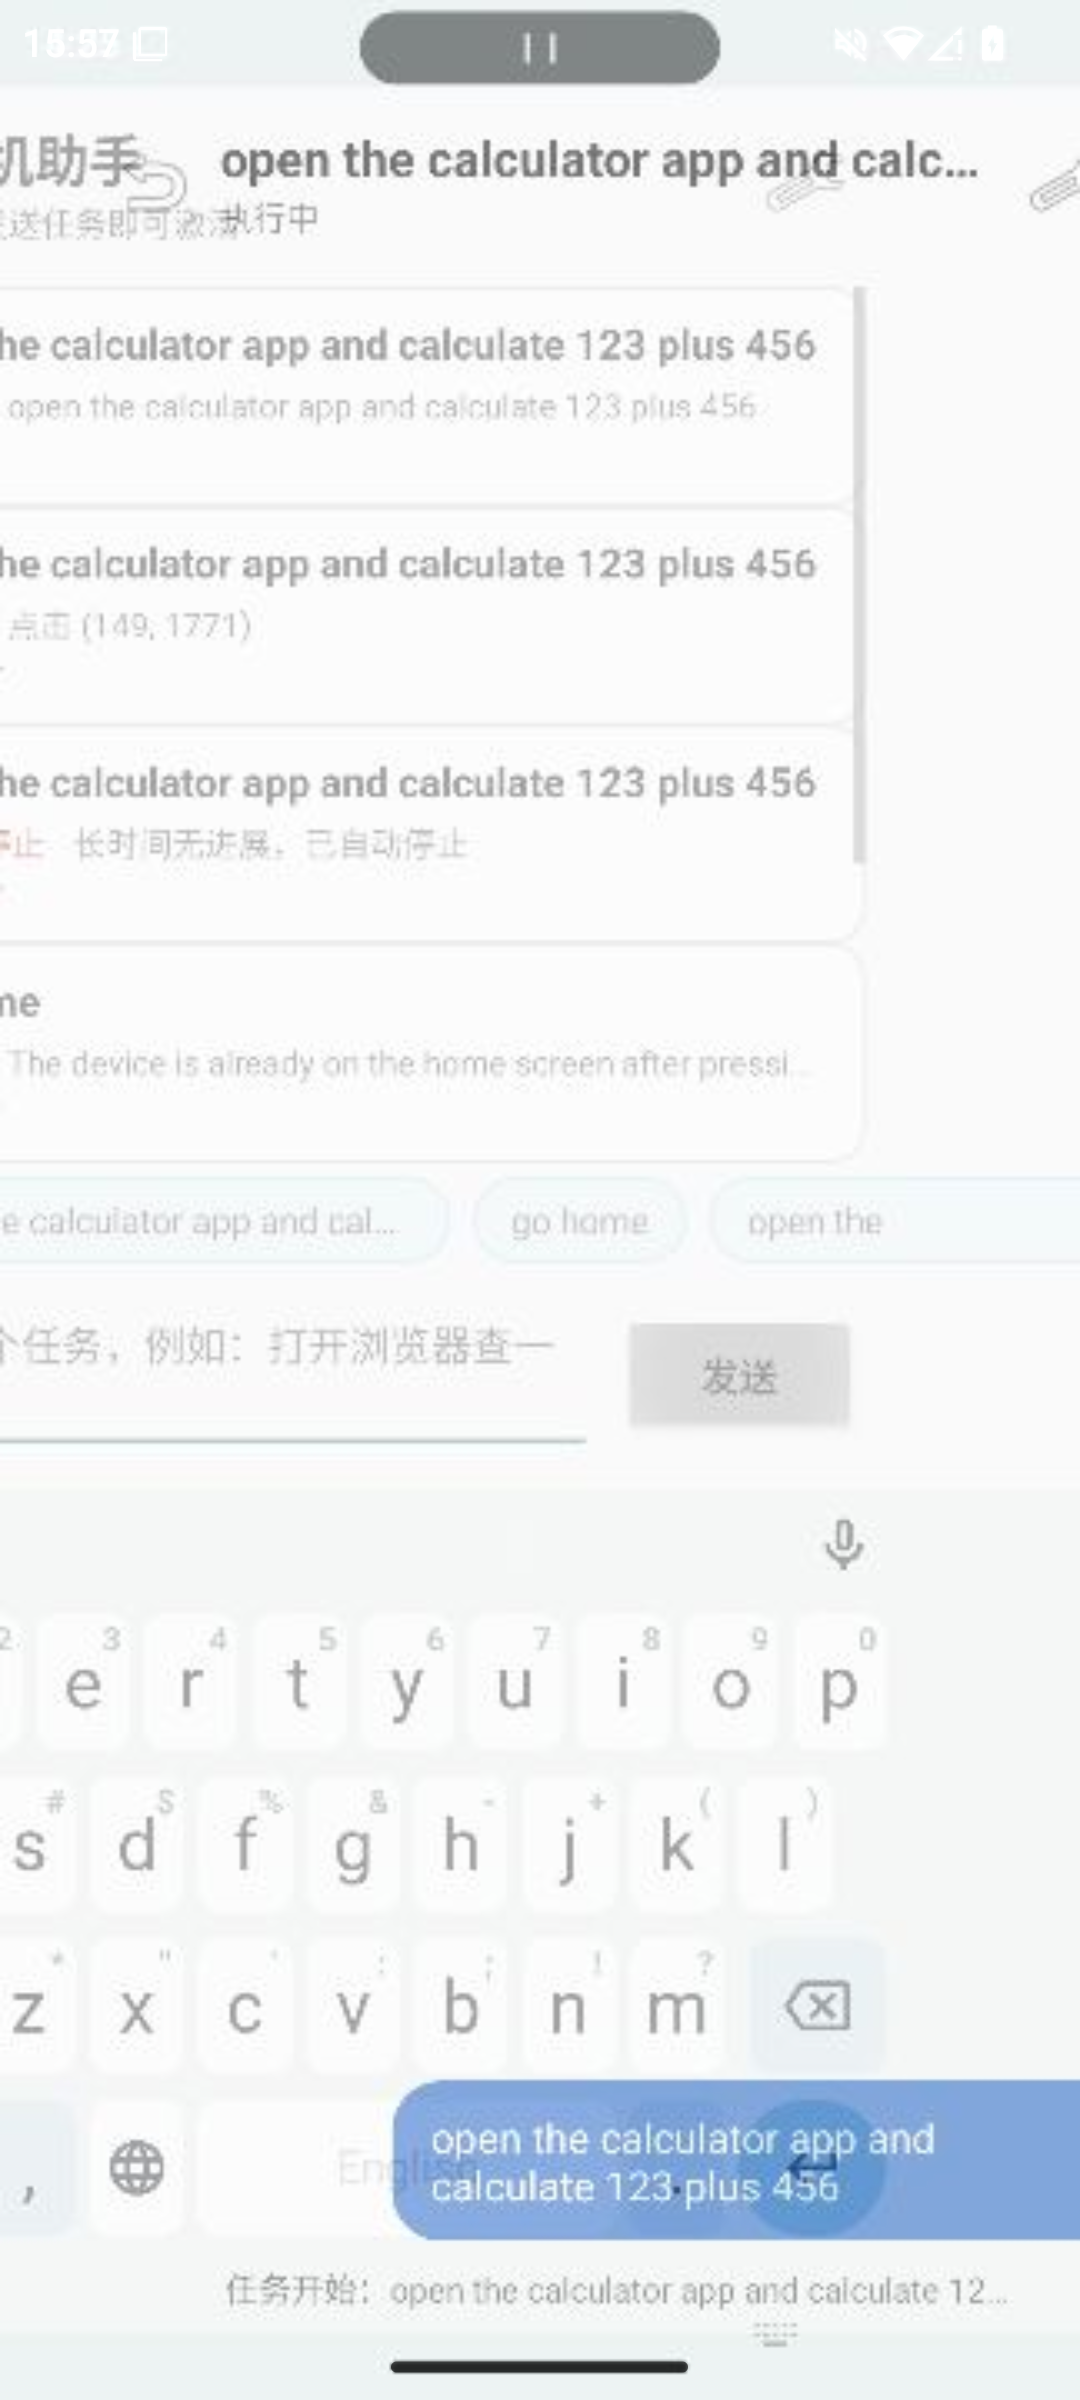
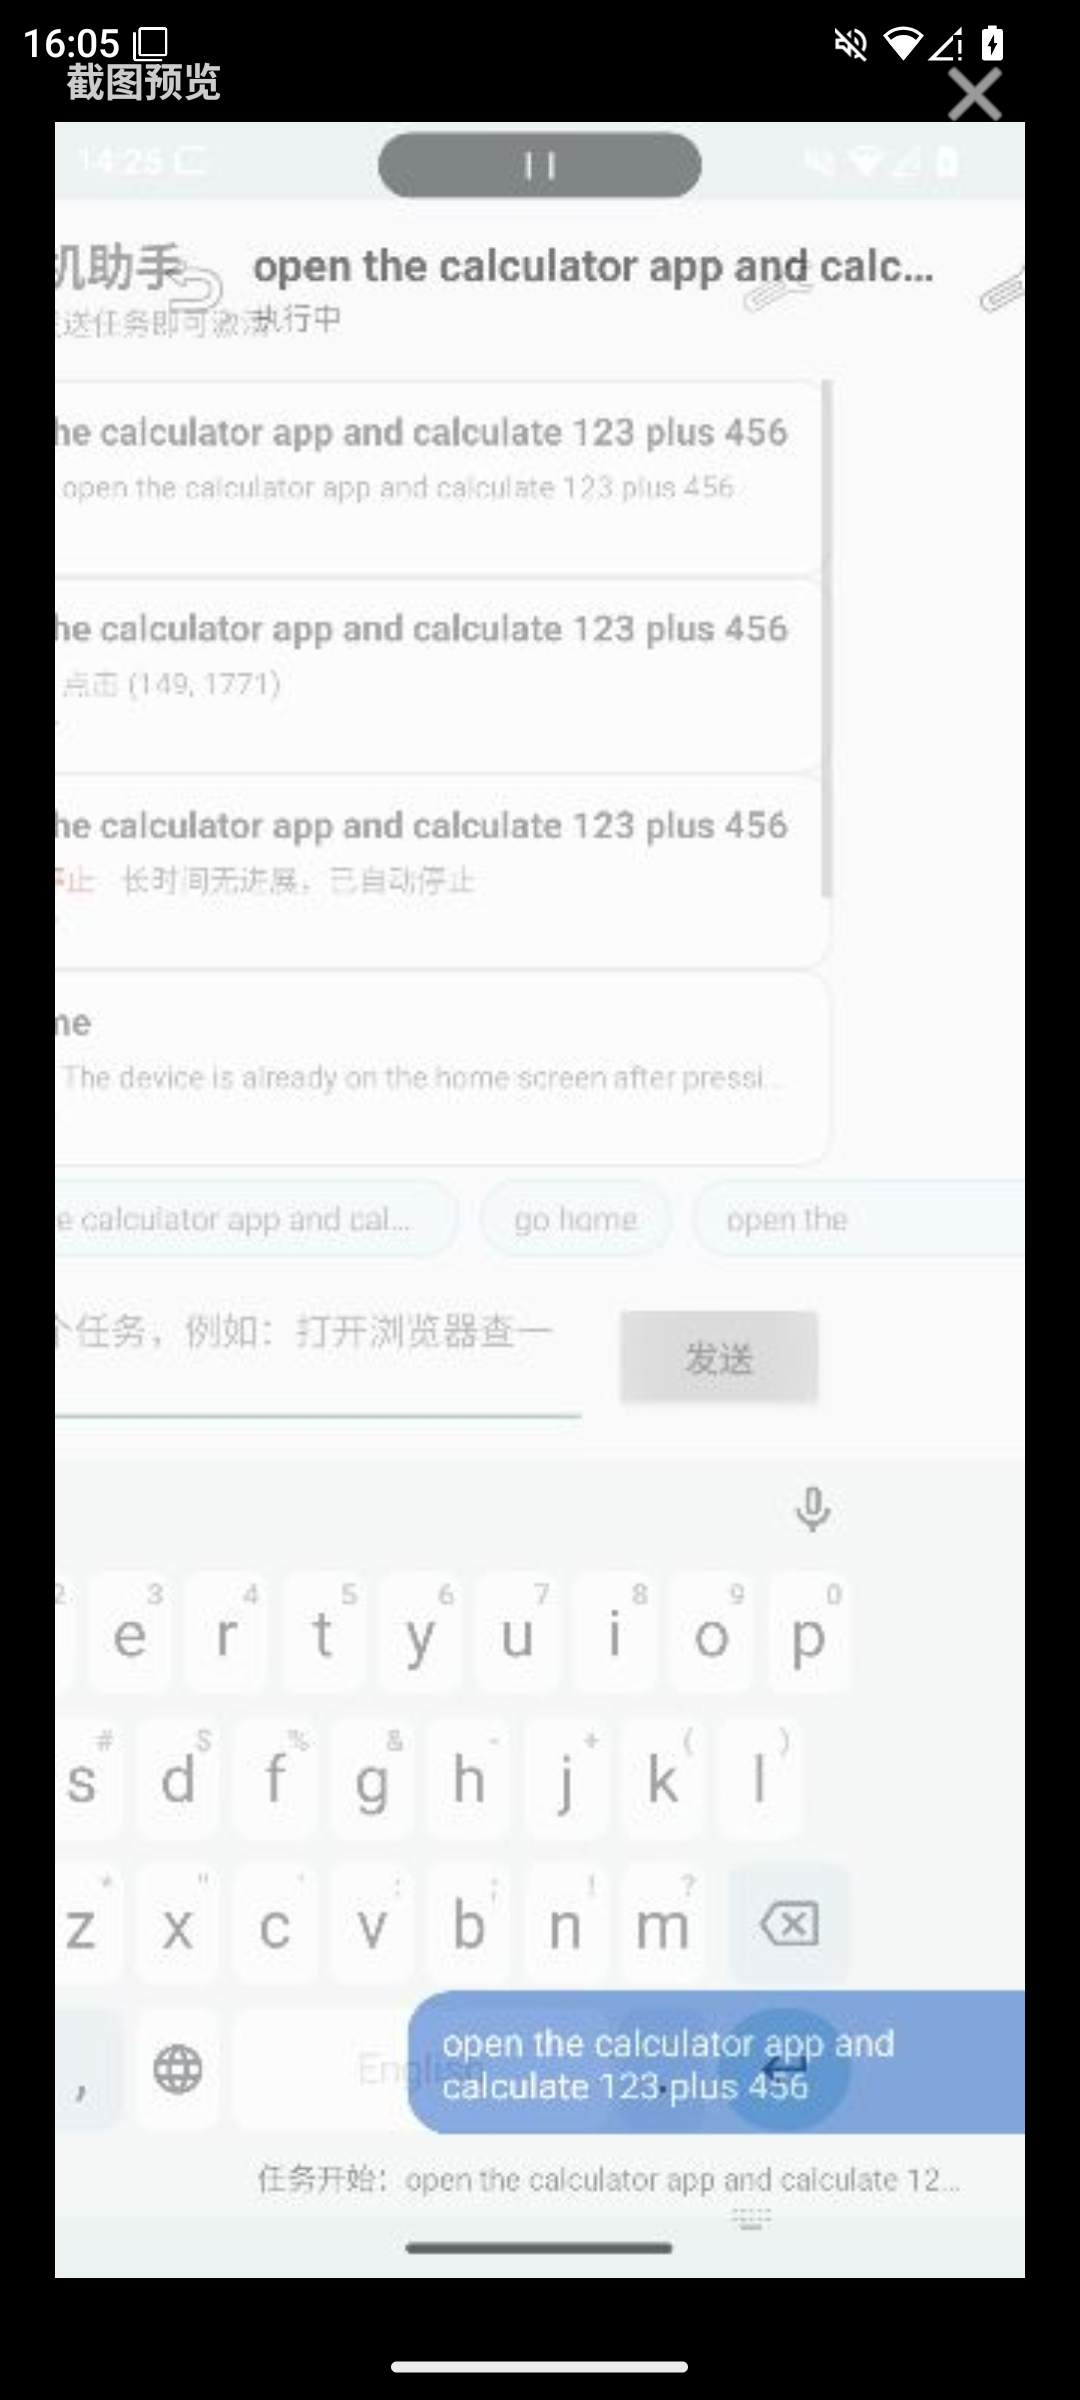
ui: make the screenshot viewer read as a viewer
The stored key-node screenshot of an early step is often this very app's
list page, so the old edge-to-edge preview looked like nothing opened (or a
transparent overlay). The viewer now shows the image inset on a black
backdrop with a 'screenshot preview' label and a close button, and fades in
and out.

diff --git a/src/com/android/aiphoneassistant/ImagePreviewActivity.java b/src/com/android/aiphoneassistant/ImagePreviewActivity.java
@@ -53,11 +53,18 @@ public class ImagePreviewActivity extends Activity {
         final ImageView image = findViewById(R.id.preview_image);
         final ProgressBar progress = findViewById(R.id.preview_progress);
 
+        overridePendingTransition(android.R.anim.fade_in, android.R.anim.fade_out);
+
         if (name == null || name.isEmpty()) {
             finish();
             return;
         }
-        image.setOnClickListener(v -> finish());
+        View.OnClickListener close = v -> {
+            finish();
+            overridePendingTransition(0, android.R.anim.fade_out);
+        };
+        image.setOnClickListener(close);
+        findViewById(R.id.preview_close).setOnClickListener(close);
 
         // Decode off the UI thread; the blob is a small JPEG (~100 KB).
         new Thread(() -> {
